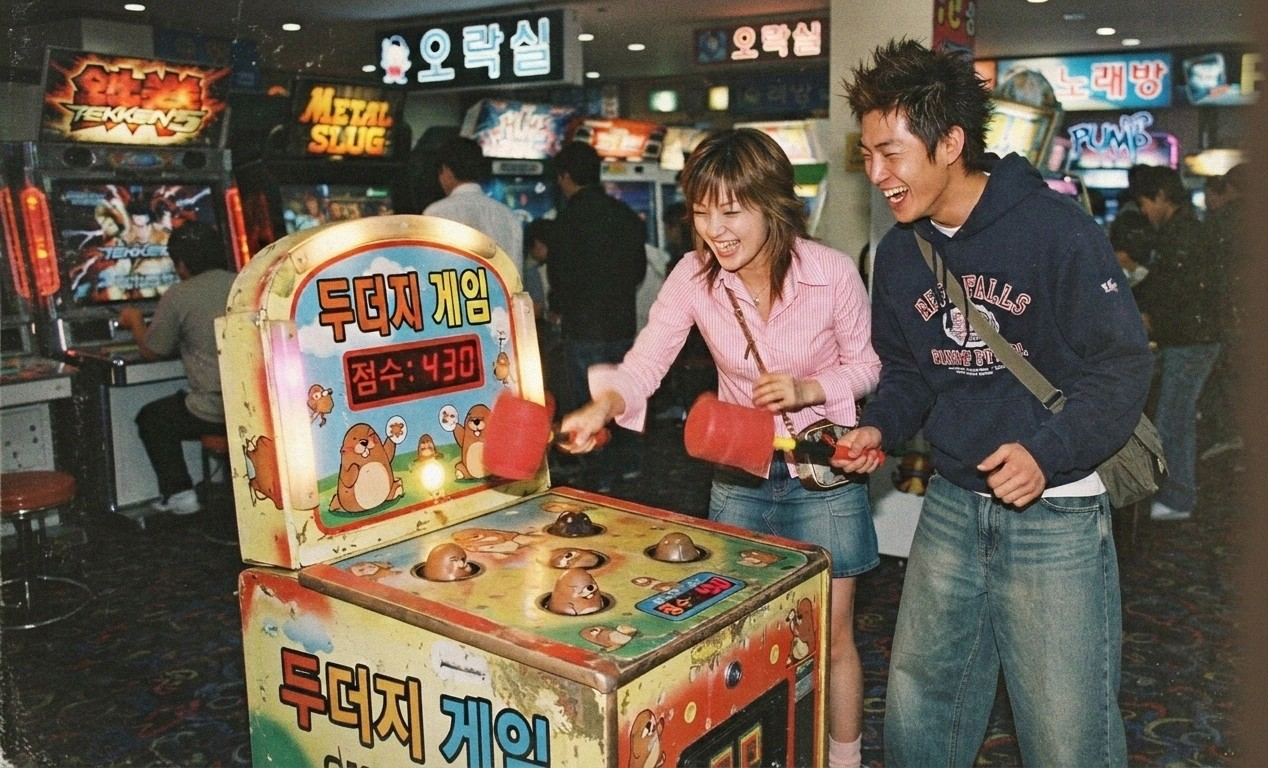
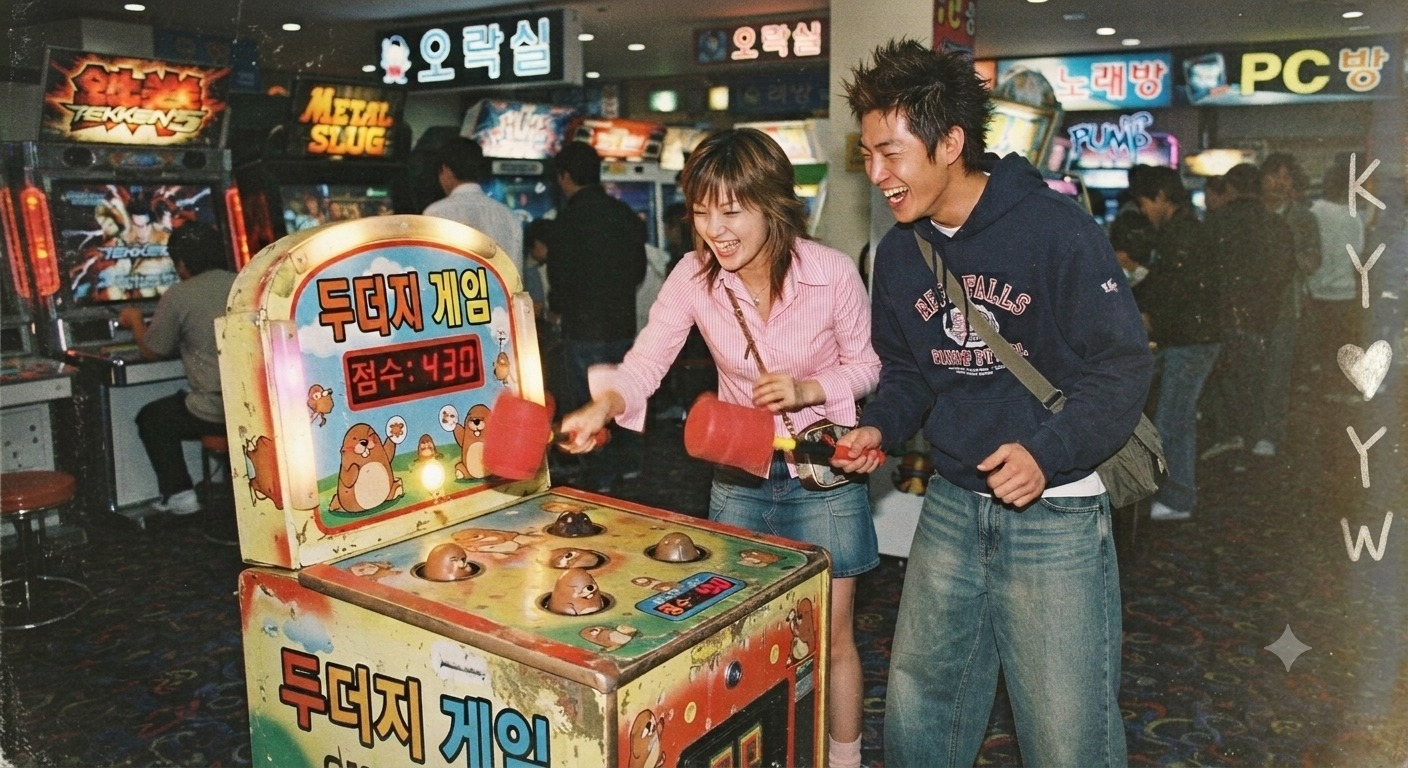
mole v362: 인트로 사진 원본으로 복귀 (워터마크 제거 작업 롤백, 사용자 요청)
Claude-Session: https://claude.ai/code/session_014jmrVUMe2FswZKieYGWidQ

diff --git a/mole/index.html b/mole/index.html
@@ -165,7 +165,7 @@
       </div>
 
       <!-- 시작 UI = 카톡풍 대화 (폰 화면 = 보드 안) -->
-      <div id="build-tag" aria-hidden="true">v361</div>
+      <div id="build-tag" aria-hidden="true">v362</div>
       <div id="board-start" class="board-panel board-start">
 
         <!-- 첫 방문: 전체 인트로 대화 -->
@@ -563,7 +563,7 @@
       } else {
         // ?v= 로 매 배포마다 URL을 바꿔서 GitHub Pages의 sw.js 캐시(max-age=600)를 무조건 우회 —
         // 안 그러면 배포 직후에도 최대 10분간 옛 서비스워커가 안 갈리는 경우가 있었음(사용자 보고).
-        navigator.serviceWorker.register('sw.js?v=361').catch(function () {});
+        navigator.serviceWorker.register('sw.js?v=362').catch(function () {});
       }
     });
   }

diff --git a/mole/sw.js b/mole/sw.js
@@ -3,7 +3,7 @@
 // 폴백 전용으로만 갱신한다. (예전엔 stale-while-revalidate라 배포해도 "다음 실행"에야
 // 반영돼 사용자 체감 대기가 길었음 — 온라인=항상 최신, 오프라인=마지막 캐시로 변경.)
 // SHELL 목록 자체가 바뀔 때만 CACHE 를 올린다.
-const CACHE = 'mole-game-v361';
+const CACHE = 'mole-game-v362';
 
 // 화면별 BGM(audio/bgm-*.mp3)은 v275 부터 SHELL 에 포함 — 기본 켜짐(v272)이라 항상 필요하고,
 // 캐시가 안 돼 있으면 오프라인/느린망에서 재생 실패했음.
